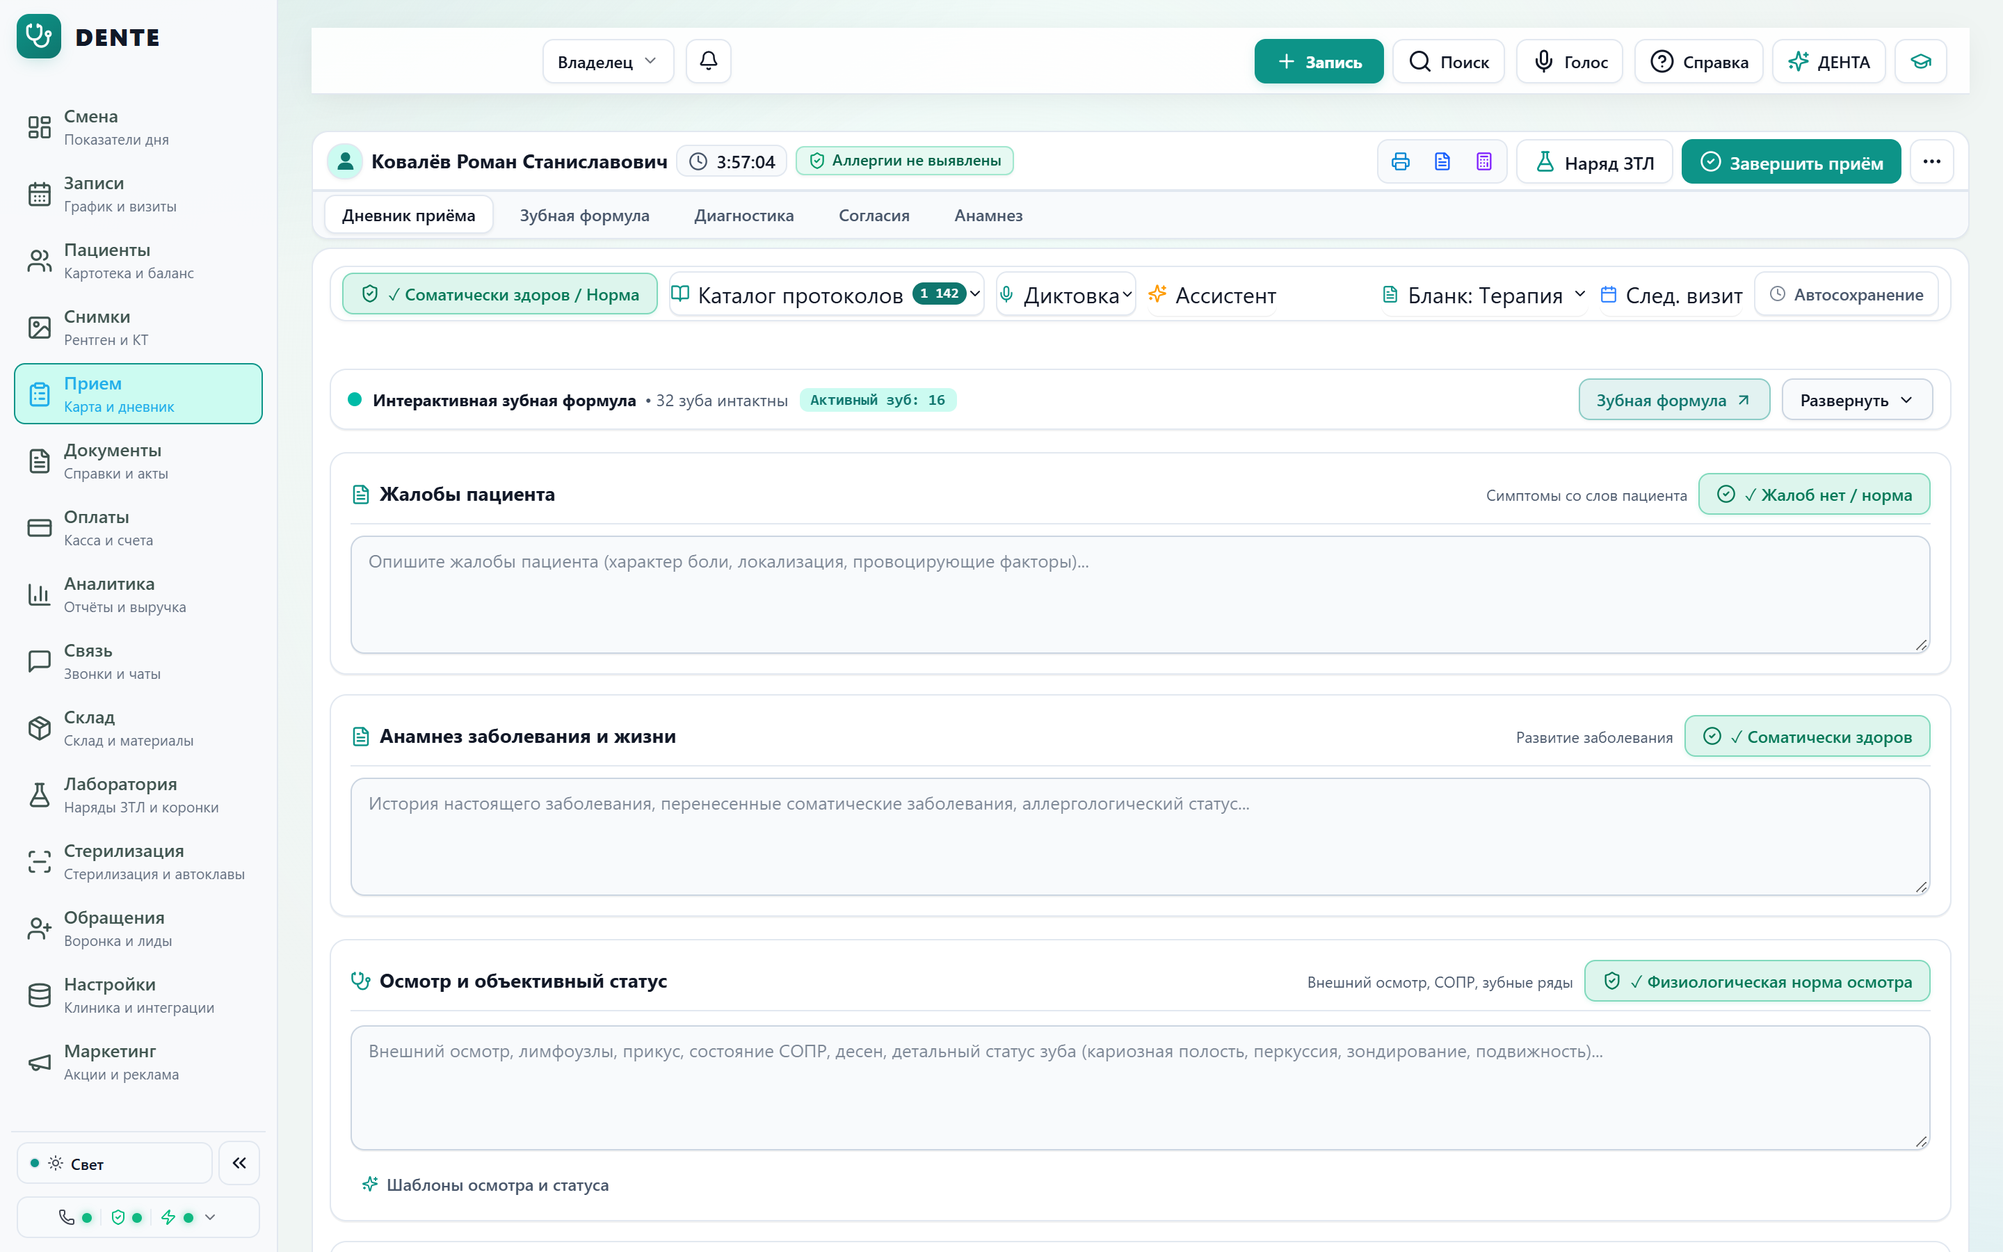
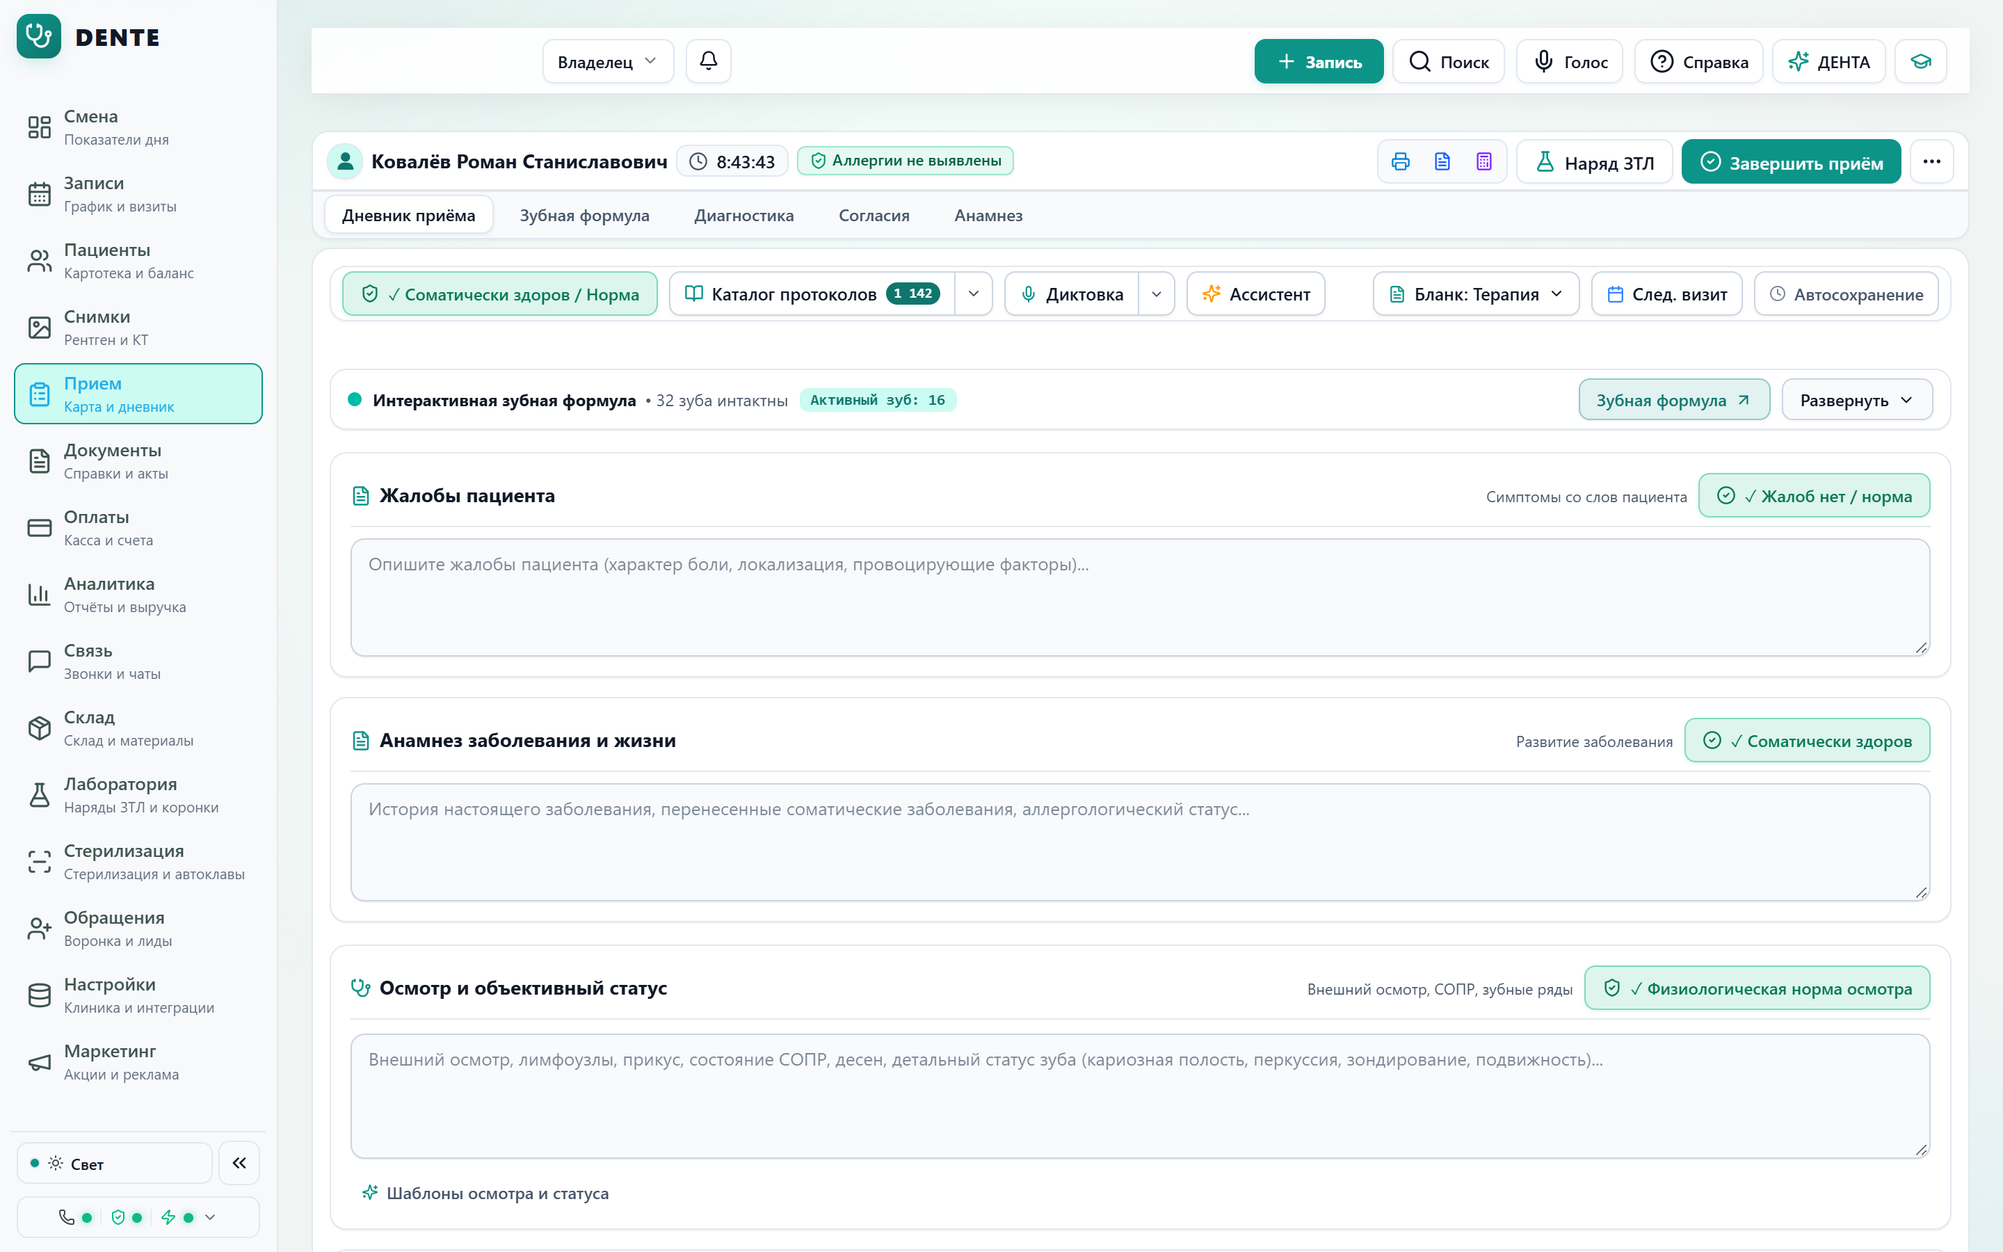
fix(visit-emk): enforce tactile 32px button borders and clinical split controls in emk toolbar

diff --git a/apps/web/src/styles/components.css b/apps/web/src/styles/components.css
@@ -834,9 +834,9 @@ button.emk-norm-button {
 	justify-content: center !important;
 	gap: 6px !important;
 	box-sizing: border-box !important;
-	height: 30px !important;
-	min-height: 30px !important;
-	max-height: 30px !important;
+	height: 32px !important;
+	min-height: 32px !important;
+	max-height: 32px !important;
 	padding: 0 12px !important;
 	font-family: inherit !important;
 	font-size: 12px !important;
@@ -956,6 +956,248 @@ button.emk-action-button--teal:hover:not(:disabled) {
 	border-color: rgba(45, 212, 191, 0.5) !important;
 	color: #5eead4 !important;
 }
+
+/* ==========================================================================
+   13. EMK TACTILE TOOLBAR CONTROLS (Tactile Clinical Console Standard)
+   Authority: Red Team Inquisitor Tactile & Dente Design System
+   Guarantees:
+   - 100% tangible boundaries and tactile surfaces across all themes.
+   - Zero naked floating text buttons in EMK Action Bar.
+   - Explicit 1px border with --line-strong (light) / rgba(255,255,255,0.18-0.22) (dark).
+   - Elevated noble surface (var(--paper)), 8px border-radius, subtle tactile shadow.
+   - Smooth hover elevation with accent border.
+   ========================================================================== */
+
+.emk-toolbar-btn,
+button.emk-toolbar-btn {
+	display: inline-flex !important;
+	align-items: center !important;
+	justify-content: center !important;
+	gap: 6px !important;
+	box-sizing: border-box !important;
+	height: 32px !important;
+	min-height: 32px !important;
+	max-height: 32px !important;
+	padding: 0 10px !important;
+	font-family: inherit !important;
+	font-size: 12.5px !important;
+	font-weight: 500 !important;
+	line-height: 1 !important;
+	border-radius: 8px !important;
+	cursor: pointer !important;
+	white-space: nowrap !important;
+	text-decoration: none !important;
+	user-select: none !important;
+	outline: none !important;
+	position: relative !important;
+	background-color: var(--paper) !important;
+	border: 1px solid var(--line-strong, #cbd5e1) !important;
+	color: var(--ink) !important;
+	box-shadow: 0 1px 2px rgba(0, 0, 0, 0.06) !important;
+	transition: all 0.15s cubic-bezier(0.4, 0, 0.2, 1) !important;
+	-webkit-tap-highlight-color: transparent !important;
+	flex-shrink: 0 !important;
+}
+
+.emk-toolbar-btn:hover:not(:disabled),
+button.emk-toolbar-btn:hover:not(:disabled) {
+	background-color: var(--paper-soft) !important;
+	border-color: var(--teal, #0d9488) !important;
+	color: var(--teal-ink, var(--teal, #0d9488)) !important;
+	transform: translateY(-1px) !important;
+	box-shadow: 0 2px 5px rgba(0, 0, 0, 0.08) !important;
+}
+
+.emk-toolbar-btn:active:not(:disabled),
+button.emk-toolbar-btn:active:not(:disabled) {
+	transform: translateY(0) scale(0.98) !important;
+	box-shadow: 0 1px 2px rgba(0, 0, 0, 0.04) !important;
+}
+
+.emk-toolbar-btn.active,
+button.emk-toolbar-btn.active,
+.emk-toolbar-btn[aria-expanded="true"],
+button.emk-toolbar-btn[aria-expanded="true"] {
+	background-color: var(--teal-soft, rgba(13, 148, 136, 0.12)) !important;
+	border-color: var(--teal, #0d9488) !important;
+	color: var(--teal-ink, var(--teal, #0d9488)) !important;
+	font-weight: 600 !important;
+	box-shadow: 0 1px 3px rgba(13, 148, 136, 0.18) !important;
+}
+
+/* Dark mode theme hygiene for emk-toolbar-btn */
+:root.dark .emk-toolbar-btn,
+[data-theme="dark"] .emk-toolbar-btn,
+[data-theme="night"] .emk-toolbar-btn,
+[data-theme="oled"] .emk-toolbar-btn,
+[data-theme="ocean"] .emk-toolbar-btn,
+[data-theme="cyber_xray"] .emk-toolbar-btn,
+[data-theme="emerald"] .emk-toolbar-btn,
+[data-theme="contrast"] .emk-toolbar-btn {
+	background-color: var(--paper) !important;
+	border: 1px solid rgba(255, 255, 255, 0.18) !important;
+	color: var(--ink) !important;
+	box-shadow: 0 1px 3px rgba(0, 0, 0, 0.35) !important;
+}
+
+:root.dark .emk-toolbar-btn:hover:not(:disabled),
+[data-theme="dark"] .emk-toolbar-btn:hover:not(:disabled),
+[data-theme="night"] .emk-toolbar-btn:hover:not(:disabled),
+[data-theme="oled"] .emk-toolbar-btn:hover:not(:disabled),
+[data-theme="ocean"] .emk-toolbar-btn:hover:not(:disabled),
+[data-theme="cyber_xray"] .emk-toolbar-btn:hover:not(:disabled),
+[data-theme="emerald"] .emk-toolbar-btn:hover:not(:disabled),
+[data-theme="contrast"] .emk-toolbar-btn:hover:not(:disabled) {
+	background-color: var(--paper-soft) !important;
+	border-color: #2dd4bf !important;
+	color: #2dd4bf !important;
+	box-shadow: 0 2px 6px rgba(0, 0, 0, 0.5) !important;
+}
+
+:root.dark .emk-toolbar-btn.active,
+[data-theme="dark"] .emk-toolbar-btn.active,
+[data-theme="night"] .emk-toolbar-btn.active,
+[data-theme="oled"] .emk-toolbar-btn.active,
+[data-theme="ocean"] .emk-toolbar-btn.active,
+[data-theme="cyber_xray"] .emk-toolbar-btn.active,
+[data-theme="emerald"] .emk-toolbar-btn.active,
+[data-theme="contrast"] .emk-toolbar-btn.active {
+	background-color: rgba(13, 148, 136, 0.22) !important;
+	border-color: #2dd4bf !important;
+	color: #2dd4bf !important;
+}
+
+/* Сплит-группа каталога протоколов 1 142 и диктовки */
+.emk-toolbar-split-group {
+	display: inline-flex !important;
+	align-items: center !important;
+	border-radius: 8px !important;
+	border: 1px solid var(--line-strong, #cbd5e1) !important;
+	background-color: var(--paper) !important;
+	box-shadow: 0 1px 2px rgba(0, 0, 0, 0.06) !important;
+	overflow: hidden !important;
+	flex-shrink: 0 !important;
+	height: 32px !important;
+	min-height: 32px !important;
+	max-height: 32px !important;
+	transition: all 0.15s cubic-bezier(0.4, 0, 0.2, 1) !important;
+	box-sizing: border-box !important;
+}
+
+.emk-toolbar-split-group:hover {
+	border-color: var(--teal, #0d9488) !important;
+}
+
+:root.dark .emk-toolbar-split-group,
+[data-theme="dark"] .emk-toolbar-split-group,
+[data-theme="night"] .emk-toolbar-split-group,
+[data-theme="oled"] .emk-toolbar-split-group,
+[data-theme="ocean"] .emk-toolbar-split-group,
+[data-theme="cyber_xray"] .emk-toolbar-split-group,
+[data-theme="emerald"] .emk-toolbar-split-group,
+[data-theme="contrast"] .emk-toolbar-split-group {
+	border: 1px solid rgba(255, 255, 255, 0.18) !important;
+	box-shadow: 0 1px 3px rgba(0, 0, 0, 0.35) !important;
+}
+
+.emk-toolbar-split-group .emk-split-main {
+	height: 32px !important;
+	min-height: 32px !important;
+	max-height: 32px !important;
+	padding: 0 10px !important;
+	font-family: inherit !important;
+	font-size: 12.5px !important;
+	font-weight: 500 !important;
+	color: var(--ink) !important;
+	background: transparent !important;
+	border: none !important;
+	display: inline-flex !important;
+	align-items: center !important;
+	gap: 6px !important;
+	cursor: pointer !important;
+	white-space: nowrap !important;
+	transition: all 0.15s ease !important;
+	box-sizing: border-box !important;
+}
+
+.emk-toolbar-split-group .emk-split-main:hover {
+	background-color: var(--paper-soft) !important;
+	color: var(--teal-ink, var(--teal, #0d9488)) !important;
+}
+
+.emk-toolbar-split-group .emk-split-arrow {
+	height: 32px !important;
+	min-height: 32px !important;
+	max-height: 32px !important;
+	padding: 0 7px !important;
+	border: none !important;
+	border-left: 1px solid var(--line-strong, #cbd5e1) !important;
+	background: transparent !important;
+	color: var(--muted) !important;
+	display: inline-flex !important;
+	align-items: center !important;
+	justify-content: center !important;
+	cursor: pointer !important;
+	transition: all 0.15s ease !important;
+	box-sizing: border-box !important;
+}
+
+:root.dark .emk-toolbar-split-group .emk-split-arrow,
+[data-theme="dark"] .emk-toolbar-split-group .emk-split-arrow,
+[data-theme="night"] .emk-toolbar-split-group .emk-split-arrow,
+[data-theme="oled"] .emk-toolbar-split-group .emk-split-arrow,
+[data-theme="ocean"] .emk-toolbar-split-group .emk-split-arrow,
+[data-theme="cyber_xray"] .emk-toolbar-split-group .emk-split-arrow,
+[data-theme="emerald"] .emk-toolbar-split-group .emk-split-arrow,
+[data-theme="contrast"] .emk-toolbar-split-group .emk-split-arrow {
+	border-left: 1px solid rgba(255, 255, 255, 0.18) !important;
+}
+
+.emk-toolbar-split-group .emk-split-arrow:hover {
+	background-color: var(--paper-soft) !important;
+	color: var(--ink) !important;
+}
+
+/* Статус автосохранения — согласованная аккуратная тактильная капсула */
+.emk-autosave-clean-badge,
+[data-testid="emk-autosave-status-badge"] {
+	display: inline-flex !important;
+	align-items: center !important;
+	justify-content: center !important;
+	gap: 6px !important;
+	height: 32px !important;
+	min-height: 32px !important;
+	max-height: 32px !important;
+	padding: 0 10px !important;
+	border-radius: 8px !important;
+	border: 1px solid var(--line-strong, #cbd5e1) !important;
+	background-color: var(--paper) !important;
+	color: var(--muted) !important;
+	font-family: inherit !important;
+	font-size: 12px !important;
+	font-weight: 500 !important;
+	box-shadow: 0 1px 2px rgba(0, 0, 0, 0.04) !important;
+	white-space: nowrap !important;
+	flex-shrink: 0 !important;
+	user-select: none !important;
+	box-sizing: border-box !important;
+}
+
+:root.dark .emk-autosave-clean-badge,
+[data-theme="dark"] .emk-autosave-clean-badge,
+[data-theme="night"] .emk-autosave-clean-badge,
+[data-theme="oled"] .emk-autosave-clean-badge,
+[data-theme="ocean"] .emk-autosave-clean-badge,
+[data-theme="cyber_xray"] .emk-autosave-clean-badge,
+[data-theme="emerald"] .emk-autosave-clean-badge,
+[data-theme="contrast"] .emk-autosave-clean-badge,
+:root.dark [data-testid="emk-autosave-status-badge"],
+[data-theme="dark"] [data-testid="emk-autosave-status-badge"] {
+	border: 1px solid rgba(255, 255, 255, 0.18) !important;
+	background-color: var(--paper) !important;
+	box-shadow: 0 1px 3px rgba(0, 0, 0, 0.35) !important;
+}
+
 
 
 

diff --git a/apps/web/src/components/visit/emk/EmkToolbar.tsx b/apps/web/src/components/visit/emk/EmkToolbar.tsx
@@ -239,12 +239,12 @@ export function EmkToolbar({
 
 					{/* Кнопка вызова Каталога 1 142 протоколов + меню быстрых норм */}
 					{onOpenProtocolsCatalog && (
-						<div className="inline-flex items-center rounded-lg border border-[var(--line-subtle)] bg-[var(--paper)] shadow-2xs overflow-hidden shrink-0 hover:border-[var(--teal)] transition-all h-8 min-h-[32px] max-h-[32px]">
+						<div className="emk-toolbar-split-group">
 							<button
 								type="button"
 								data-testid="btn-open-protocols-catalog-1142"
 								onClick={onOpenProtocolsCatalog}
-								className="h-8 min-h-[32px] max-h-[32px] px-3 text-[13px] font-medium text-[var(--ink)] hover:bg-[var(--paper-soft)] hover:text-[var(--teal-ink,var(--teal))] transition-all cursor-pointer inline-flex items-center gap-1.5 whitespace-nowrap touch-manipulation active:scale-[0.98]"
+								className="emk-split-main"
 								title="Открыть полный каталог клинических протоколов"
 							>
 								<BookOpen className="w-3.5 h-3.5 text-[var(--teal)] shrink-0" />
@@ -260,7 +260,7 @@ export function EmkToolbar({
 								ref={buttonRef}
 								data-testid="btn-toggle-extra-soap-menu"
 								onClick={() => setIsExtraMenuOpen((prev) => !prev)}
-								className={`h-8 min-h-[32px] max-h-[32px] px-2 border-l border-[var(--line-subtle)] text-[var(--muted)] hover:text-[var(--ink)] hover:bg-[var(--paper-soft)] transition-all cursor-pointer inline-flex items-center justify-center ${
+								className={`emk-split-arrow ${
 									isExtraMenuOpen ? "bg-[var(--paper-soft)] text-[var(--ink)]" : ""
 								}`}
 								title="Быстрые клинические нормы и бланки"
@@ -433,12 +433,9 @@ export function EmkToolbar({
 						type="button"
 						data-testid="btn-toggle-chairside-hud"
 						onClick={onToggleCopilot}
-						className={`h-8 min-h-[32px] max-h-[32px] px-3 rounded-lg border transition-all cursor-pointer inline-flex items-center gap-1.5 text-[13px] font-medium shadow-2xs whitespace-nowrap shrink-0 active:scale-[0.98] ${
-							isCopilotOpen
-								? "bg-[var(--teal-fill,var(--teal))] text-[var(--on-teal,white)] border-[var(--teal-fill,var(--teal))]"
-								: "border-[var(--line-subtle)] bg-[var(--paper)] text-[var(--ink)] hover:bg-[var(--paper-soft)] hover:text-[var(--teal-ink,var(--teal))] hover:border-[var(--teal)]"
-						}`}
+						className={`emk-toolbar-btn ${isCopilotOpen ? "active" : ""}`}
 						title="Интеллектуальный клинический ассистент приёма DENTA Copilot"
+						aria-expanded={isCopilotOpen}
 					>
 						<Sparkles className="w-3.5 h-3.5 shrink-0 text-amber-500" />
 						<span className="hidden sm:inline">Ассистент</span>
@@ -458,7 +455,7 @@ export function EmkToolbar({
 					<button
 						type="button"
 						onClick={() => handleSchedule()}
-						className="h-8 min-h-[32px] max-h-[32px] px-2.5 rounded-lg text-[12.5px] font-medium border border-[var(--line-subtle)] bg-[var(--paper)] hover:bg-[var(--paper-soft)] hover:border-[var(--teal)] hover:text-[var(--teal-ink,var(--teal))] text-[var(--ink)] shadow-2xs transition-all inline-flex items-center gap-1.5 cursor-pointer active:scale-98 shrink-0 whitespace-nowrap"
+						className="emk-toolbar-btn"
 						data-testid="btn-schedule-next-stage"
 						title="Записать пациента на следующий этап через 5 дней"
 					>
@@ -470,7 +467,7 @@ export function EmkToolbar({
 					{/* Статус сохранения (Тихая телеметрия без цветных прыщей) */}
 					<span
 						data-testid="emk-autosave-status-badge"
-						className="emk-autosave-clean-badge text-[12px] font-medium h-8 min-h-[32px] max-h-[32px] px-2.5 rounded-lg border border-[var(--line-subtle)] bg-[var(--paper)] text-[var(--muted)] transition-all shrink-0 whitespace-nowrap inline-flex items-center gap-1.5 shadow-2xs"
+						className="emk-autosave-clean-badge"
 						title={hasUnsavedChanges ? "В черновике есть изменения (автосохранение активно)" : "Все изменения сохранены"}
 					>
 						{hasUnsavedChanges ? (

diff --git a/apps/web/src/components/visit/VisitSpecialtyFocus.tsx b/apps/web/src/components/visit/VisitSpecialtyFocus.tsx
@@ -157,11 +157,7 @@ export function VisitSpecialtyFocus({
 				type="button"
 				data-testid="toggle-specialty-protocol-drawer"
 				onClick={() => setIsProtocolDrawerOpen((prev: boolean) => !prev)}
-				className={`h-8 min-h-[32px] max-h-[32px] px-3 rounded-lg border text-[13px] font-medium inline-flex items-center gap-1.5 transition-all cursor-pointer shadow-2xs whitespace-nowrap shrink-0 active:scale-[0.98] ${
-					isProtocolDrawerOpen
-						? "border-[var(--teal)] bg-[var(--paper-soft)] text-[var(--teal-ink,var(--teal))]"
-						: "border-[var(--line-subtle)] bg-[var(--paper)] text-[var(--ink)] hover:bg-[var(--paper-soft)] hover:border-[var(--teal)] hover:text-[var(--teal-ink,var(--teal))]"
-				}`}
+				className={`emk-toolbar-btn ${isProtocolDrawerOpen ? "active" : ""}`}
 				title="Развернуть специализированный бланк приема"
 				aria-expanded={isProtocolDrawerOpen}
 				aria-label="Специализированный клинический бланк"
@@ -227,11 +223,11 @@ export function VisitSpecialtyFocus({
 				<button
 					type="button"
 					onClick={() => setIsProtocolDrawerOpen((prev: boolean) => !prev)}
-					className="h-7.5 px-2.5 rounded-lg text-[12.5px] font-semibold flex items-center gap-1 transition-all cursor-pointer border border-[var(--line-subtle)] bg-[var(--paper-soft)] text-[var(--teal-ink,var(--teal))] hover:bg-[var(--teal)] hover:text-white shrink-0"
+					className={`emk-toolbar-btn ${isProtocolDrawerOpen ? "active" : ""}`}
 					title="Развернуть специализированный бланк приема"
 					data-testid="toggle-specialty-protocol-drawer"
 				>
-					<FileText size={12} className="shrink-0" />
+					<FileText size={12} className="shrink-0 text-[var(--teal)]" />
 					<span className="hidden sm:inline">Бланк:</span>
 					<span>{isChildDentition ? "Детство" : isSurgery ? "Хирургия" : "Терапия"}</span>
 					<ChevronDown size={11} className={`shrink-0 transform transition-transform ${isProtocolDrawerOpen ? "rotate-180" : ""}`} />

diff --git a/apps/web/src/components/visit/EmkVoicePilot.tsx b/apps/web/src/components/visit/EmkVoicePilot.tsx
@@ -186,11 +186,11 @@ export const EmkVoicePilot: React.FC<EmkVoicePilotProps> = ({
 				className={`emk-voice-pilot-hud emk-voice-pilot-collapsed inline-flex items-center select-none shrink-0 ${className}`.trim()}
 				data-testid="emk-voice-pilot-hud"
 			>
-				<div className="inline-flex items-center rounded-lg border border-[var(--line)] bg-[var(--paper)] shadow-2xs overflow-hidden shrink-0 hover:border-[var(--teal)] transition-all h-8 min-h-[32px] max-h-[32px]">
+				<div className="emk-toolbar-split-group">
 					<button
 						type="button"
 						onClick={handleToggleMic}
-						className="h-8 min-h-[32px] max-h-[32px] px-2.5 text-xs font-semibold text-[var(--ink)] hover:bg-[var(--paper-soft)] hover:text-[var(--teal-ink,var(--teal))] transition-all cursor-pointer inline-flex items-center gap-1.5 whitespace-nowrap touch-manipulation active:scale-[0.98]"
+						className="emk-split-main"
 						title="Начать диктовку (Ctrl+Space)"
 						aria-label="Начать диктовку"
 					>
@@ -200,7 +200,7 @@ export const EmkVoicePilot: React.FC<EmkVoicePilotProps> = ({
 					<button
 						type="button"
 						onClick={() => setIsExpanded(true)}
-						className="h-8 min-h-[32px] max-h-[32px] px-2 border-l border-[var(--line)] text-[var(--muted)] hover:text-[var(--ink)] hover:bg-[var(--paper-soft)] transition-all cursor-pointer inline-flex items-center justify-center"
+						className="emk-split-arrow"
 						title="Развернуть пульт AI-Пилота"
 						aria-label="Развернуть пульт AI-Пилота"
 					>
